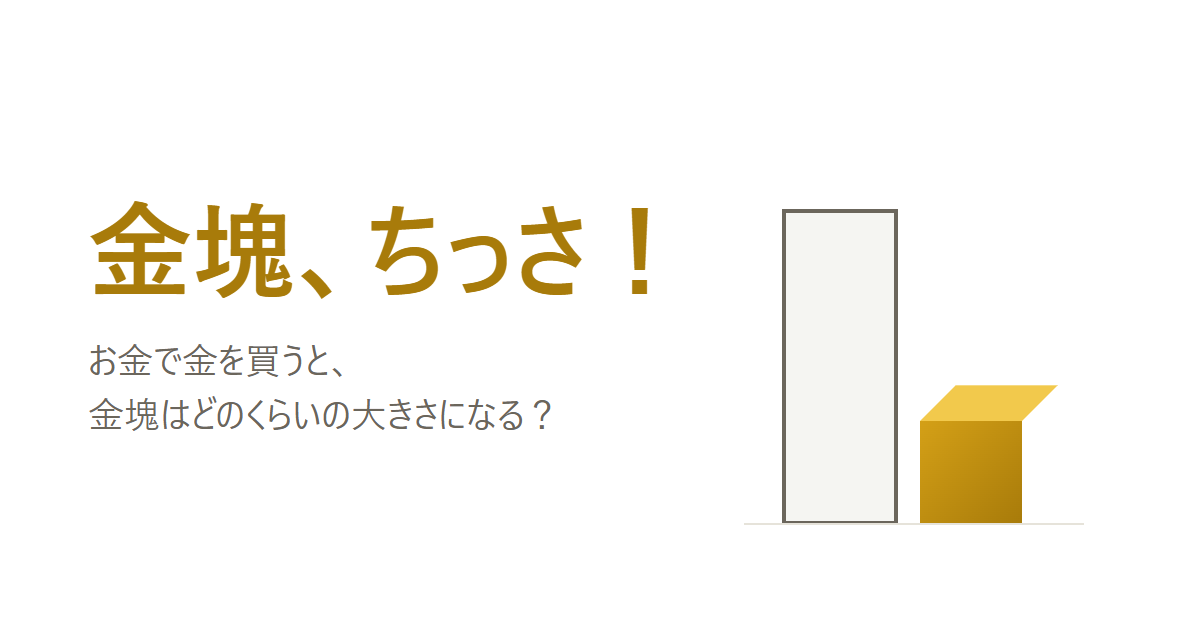
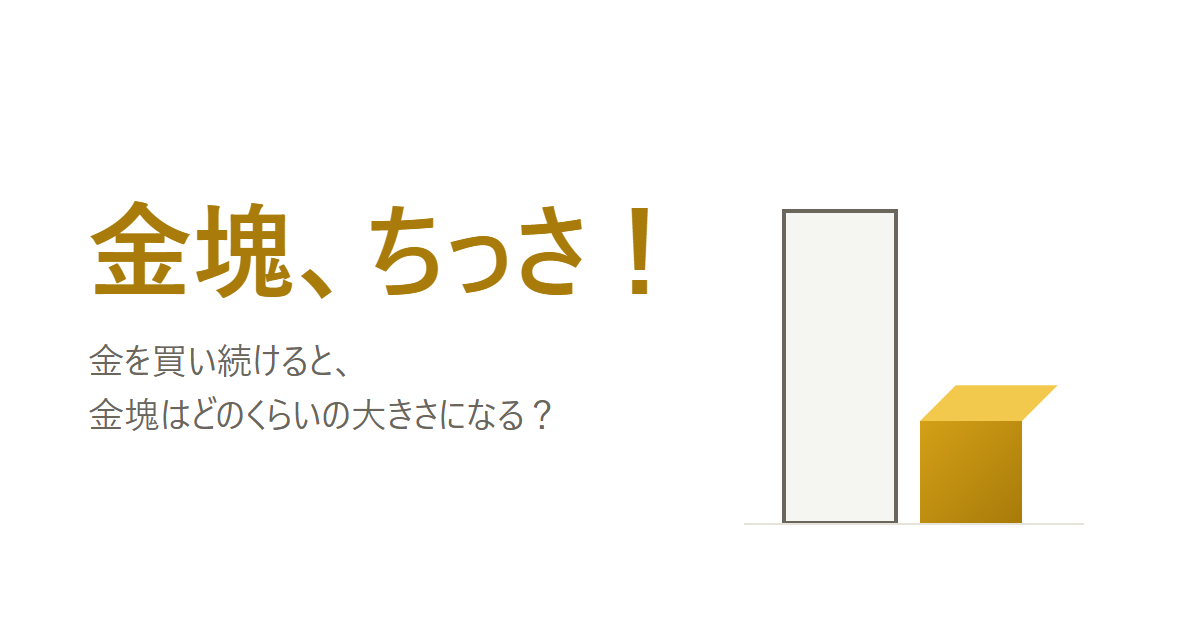
feat: キャッチコピーを変え、つくった人をリンクにする（v0.9.3）
- オーナー案：「金を買い続けると、金塊はどのくらいの大きさになる？」（タイトル・説明文・OGP の画像）
- タイトルの「つくった人：@shooojp19」を X のプロフィールへのリンクに

Changed region(s): [[0.0617, 0.5429, 0.2775, 0.6032]]

diff --git a/index.html b/index.html
@@ -4,7 +4,7 @@
     <meta charset="UTF-8" />
     <meta name="viewport" content="width=device-width, initial-scale=1, viewport-fit=cover" />
     <title>金塊、ちっさ！</title>
-    <meta name="description" content="お金で金を買うと、金塊はどのくらいの大きさになる？" />
+    <meta name="description" content="金を買い続けると、金塊はどのくらいの大きさになる？" />
     <meta name="theme-color" content="#ffffff" />
     <link rel="icon" href="./favicon.svg" type="image/svg+xml" />
     <link rel="apple-touch-icon" href="./apple-touch-icon.png" />
@@ -12,7 +12,7 @@
     <meta property="og:type" content="website" />
     <meta property="og:site_name" content="金塊、ちっさ！" />
     <meta property="og:title" content="金塊、ちっさ！" />
-    <meta property="og:description" content="お金で金を買うと、金塊はどのくらいの大きさになる？" />
+    <meta property="og:description" content="金を買い続けると、金塊はどのくらいの大きさになる？" />
     <meta property="og:url" content="%VITE_SITE_URL%" />
     <meta property="og:image" content="%VITE_SITE_URL%og-default.png" />
     <meta property="og:image:width" content="1200" />

diff --git a/src/ui/screens/title.ts b/src/ui/screens/title.ts
@@ -5,7 +5,8 @@ import { session } from '../../session';
 import { t } from '../../i18n';
 import { APP_VERSION } from '../../version';
 import type { ScreenFactory } from '../app';
-import { button, h, linkButton } from '../dom';
+import { config } from '../../data';
+import { button, externalLink, h, linkButton } from '../dom';
 import { openBasis, openPrivacy } from '../modals';
 import { soundButton } from '../parts';
 
@@ -26,7 +27,8 @@ export const titleScreen: ScreenFactory = (app) => {
     }, 'btn btn-primary start-btn'),
     h('span', { className: 'spacer' }),
     h('p', { className: 'footer-links' }, [linkButton(t('common.basisLink'), openBasis), linkButton(t('common.privacyLink'), openPrivacy)]),
-    h('p', { className: 'credit', text: t('app.credit') }),
+    // つくった人は X のプロフィールへのリンク（オーナー要望 2026-11-13）
+    h('p', { className: 'credit' }, [externalLink(t('app.credit'), config.links.follow)]),
   ]);
   return { el };
 };

diff --git a/tools/og/og.html b/tools/og/og.html
@@ -54,7 +54,7 @@
     <div class="wrap">
       <div>
         <h1>金塊、ちっさ！</h1>
-        <p>お金で金を買うと、<br />金塊はどのくらいの大きさになる？</p>
+        <p>金を買い続けると、<br />金塊はどのくらいの大きさになる？</p>
       </div>
       <div class="art">
         <!-- 牛乳パック（輪郭）と、1億円の金塊（一辺6.37cm）を同じ縮尺で（1cm＝16px） -->

diff --git a/src/style.css b/src/style.css
@@ -345,9 +345,11 @@ a.link {
 
 .credit {
   text-align: center;
-  font-size: 12px;
-  color: var(--text-sub);
   margin-top: 4px;
+}
+
+.credit .link {
+  font-size: 12px;
 }
 
 /* ---- S1 タイトル ---- */

diff --git a/docs/ロードマップ.md b/docs/ロードマップ.md
@@ -153,6 +153,7 @@
 - 「次の物まであと約〇円」を足すかは、遊んでみてから決める
 - 物の名前は絵の下（小さく）ではなく、並びの下に大きく出す（オーナー案 2026-11-13。v0.9.1）。全部追い越したあとは同じ位置に「全部追い越しました。まだ買えます」。追い越しの一言は名前の下に出す。結果画面・結果画像は今までどおり絵の下に名前
 - 各画面にホームへ戻るボタン（オーナー要望 2026-11-13。v0.9.2）：プレイ・結果画面の左上に「家の絵＋ホーム」。プレイ画面の「←」はこれに置き換えた（Q5 の「←」はこれで解決）。タイトル画面はホームなので置かない
+- キャッチコピーを「金を買い続けると、金塊はどのくらいの大きさになる？」に変更（オーナー 2026-11-13。v0.9.3）。タイトル・ページの説明文・OGP の画像の3か所。タイトルの「つくった人：@shooojp19」を X のプロフィールへのリンクに
 
 ## 公開後に足すもの
 | もの | 内容 | 決まったこと・残っている確認 |
